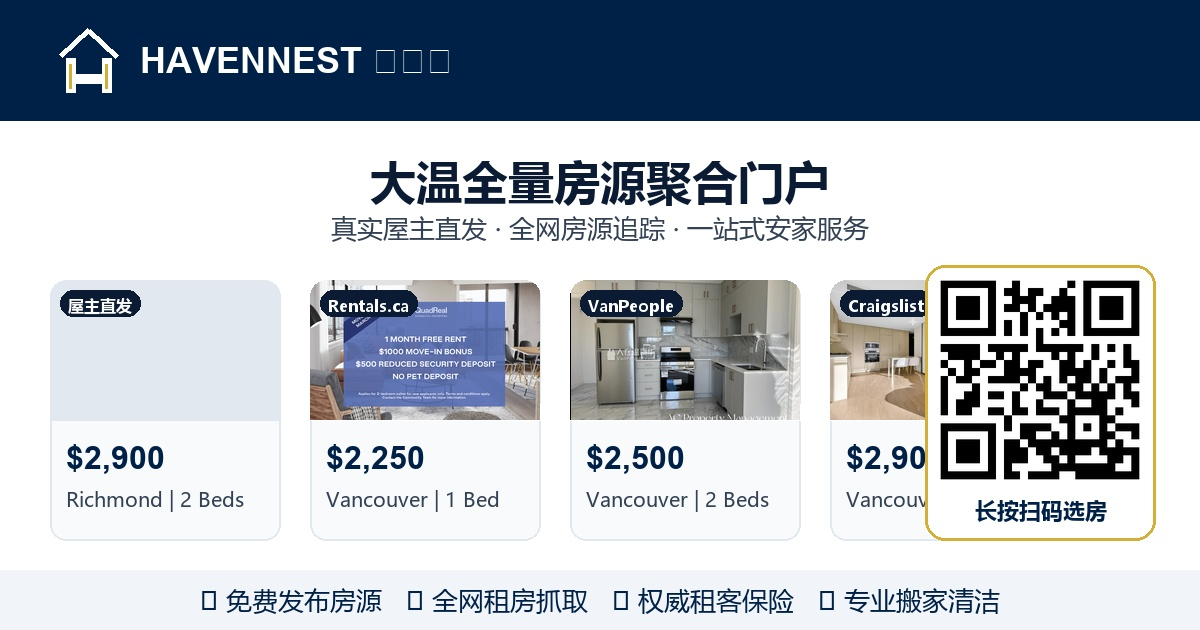
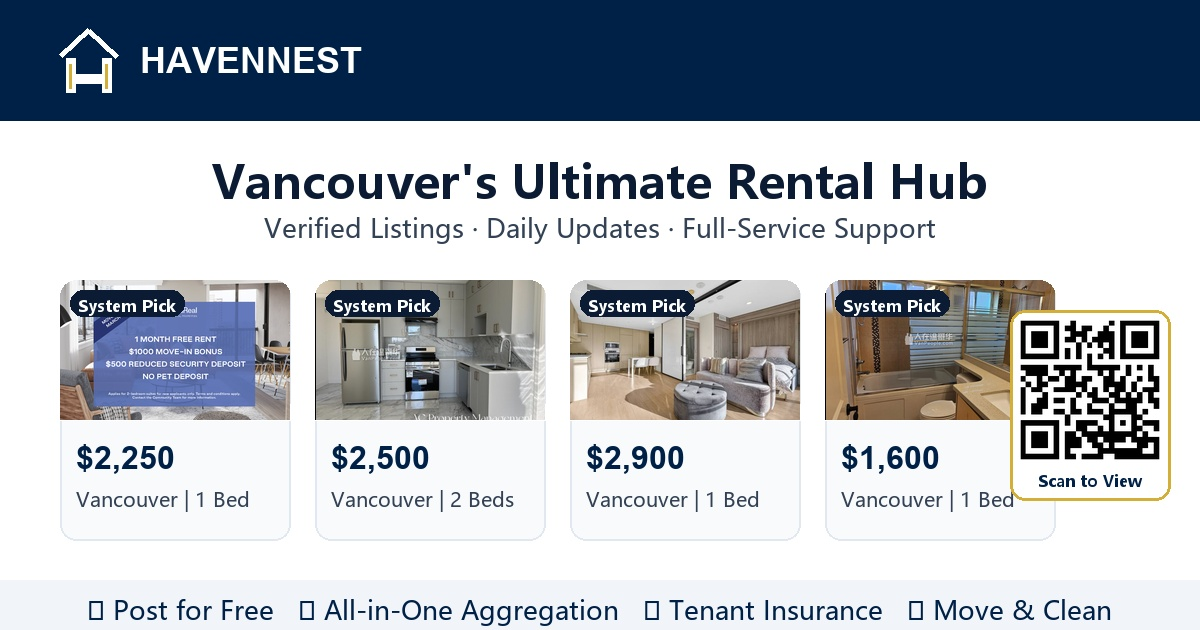
Update OG image: Translate to English and adjust QR code size/position

diff --git a/tools/generate_og_image.py b/tools/generate_og_image.py
@@ -103,11 +103,11 @@ def main():
         font_tag_cn = ImageFont.load_default()
         font_qr_cn = ImageFont.load_default()
 
-    d.text((logo_x + 80, 40), "HAVENNEST 安家居", fill=(255, 255, 255), font=font_brand)
+    d.text((logo_x + 80, 40), "HAVENNEST", fill=(255, 255, 255), font=font_brand)
     
-    # 居中大标题
-    title = "大温全量房源聚合门户"
-    sub = "真实屋主直发 · 全网房源追踪 · 一站式安家服务"
+    # 居中大标题 (英文)
+    title = "Vancouver's Ultimate Rental Hub"
+    sub = "Verified Listings · Daily Updates · Full-Service Support"
     title_w = d.textlength(title, font=font_title_cn)
     sub_w = d.textlength(sub, font=font_sub_cn)
     
@@ -120,8 +120,8 @@ def main():
     grid_y = header_h + 160
     card_w = 230
     card_h = 260
-    gap = 30
-    start_x = 50
+    gap = 25
+    start_x = 60
 
     for i, item in enumerate(listings):
         x = start_x + i * (card_w + gap)
@@ -149,8 +149,8 @@ def main():
             cover_bottom_strip = cover.crop((0, img_h-16, card_w, img_h))
             img.paste(cover_bottom_strip, (x, y + img_h - 16))
 
-        # 标签
-        tag = "屋主直发" if item.get('source') == 'owner' else item.get('source', 'System')
+        # 标签 (英文)
+        tag = "Owner Direct" if item.get('source') == 'owner' else "System Pick"
         tag_w = d.textlength(tag, font=font_tag_cn)
         d.rounded_rectangle([x + 10, y + 10, x + 10 + tag_w + 16, y + 36], radius=13, fill=(11, 27, 51, 200))
         d.text((x + 18, y + 15), tag, fill=(255, 255, 255), font=font_tag_cn)
@@ -164,34 +164,35 @@ def main():
         d.text((x + 16, y + img_h + 20), price, fill=navy, font=font_price)
         d.text((x + 16, y + img_h + 65), meta, fill=slate, font=font_meta_cn)
 
-    # 二维码区域 (放在右侧)
+    # 二维码区域 (放在右侧，缩小并下移防止遮挡卡片)
     qr_data = "https://havennestapp.com"
     try:
-        qs = urllib.parse.urlencode({"size": "300x300", "data": qr_data})
+        qs = urllib.parse.urlencode({"size": "200x200", "data": qr_data})
         qr_url = f"https://api.qrserver.com/v1/create-qr-code/?{qs}"
         with urllib.request.urlopen(qr_url, timeout=10) as resp:
             qr_png = resp.read()
         qr = Image.open(io.BytesIO(qr_png)).convert("RGB")
-        qr_size = 200
+        qr_size = 140
         qr = qr.resize((qr_size, qr_size), Image.Resampling.LANCZOS)
 
-        qr_x = width - qr_size - 60
-        qr_y = header_h + 160
+        # 调整二维码位置：往右边靠，往下放一点，避免挡住第四个房源
+        qr_x = width - qr_size - 40
+        qr_y = header_h + 200
         
         # 画二维码背景框
-        d.rounded_rectangle([qr_x - 15, qr_y - 15, qr_x + qr_size + 15, qr_y + qr_size + 60], radius=20, fill=(255, 255, 255), outline=gold, width=3)
+        d.rounded_rectangle([qr_x - 10, qr_y - 10, qr_x + qr_size + 10, qr_y + qr_size + 40], radius=15, fill=(255, 255, 255), outline=gold, width=3)
         img.paste(qr, (qr_x, qr_y))
         
         # 二维码下方文字
-        d.text((qr_x + 35, qr_y + qr_size + 15), "长按扫码选房", fill=navy, font=font_qr_cn)
+        d.text((qr_x + 18, qr_y + qr_size + 10), "Scan to View", fill=navy, font=font_tag_cn)
         
     except Exception as e:
         print(f"QR Error: {e}")
 
     # 底部服务保障
-    footer_y = height - 60
+    footer_y = height - 50
     d.rectangle([0, footer_y, width, height], fill=(241, 245, 249))
-    footer_text = "✅ 免费发布房源   ✅ 全网租房抓取   ✅ 权威租客保险   ✅ 专业搬家清洁"
+    footer_text = "✅ Post for Free   ✅ All-in-One Aggregation   ✅ Tenant Insurance   ✅ Move & Clean"
     fw = d.textlength(footer_text, font=font_sub_cn)
     d.text(((width - fw) // 2, footer_y + 12), footer_text, fill=navy, font=font_sub_cn)
 
